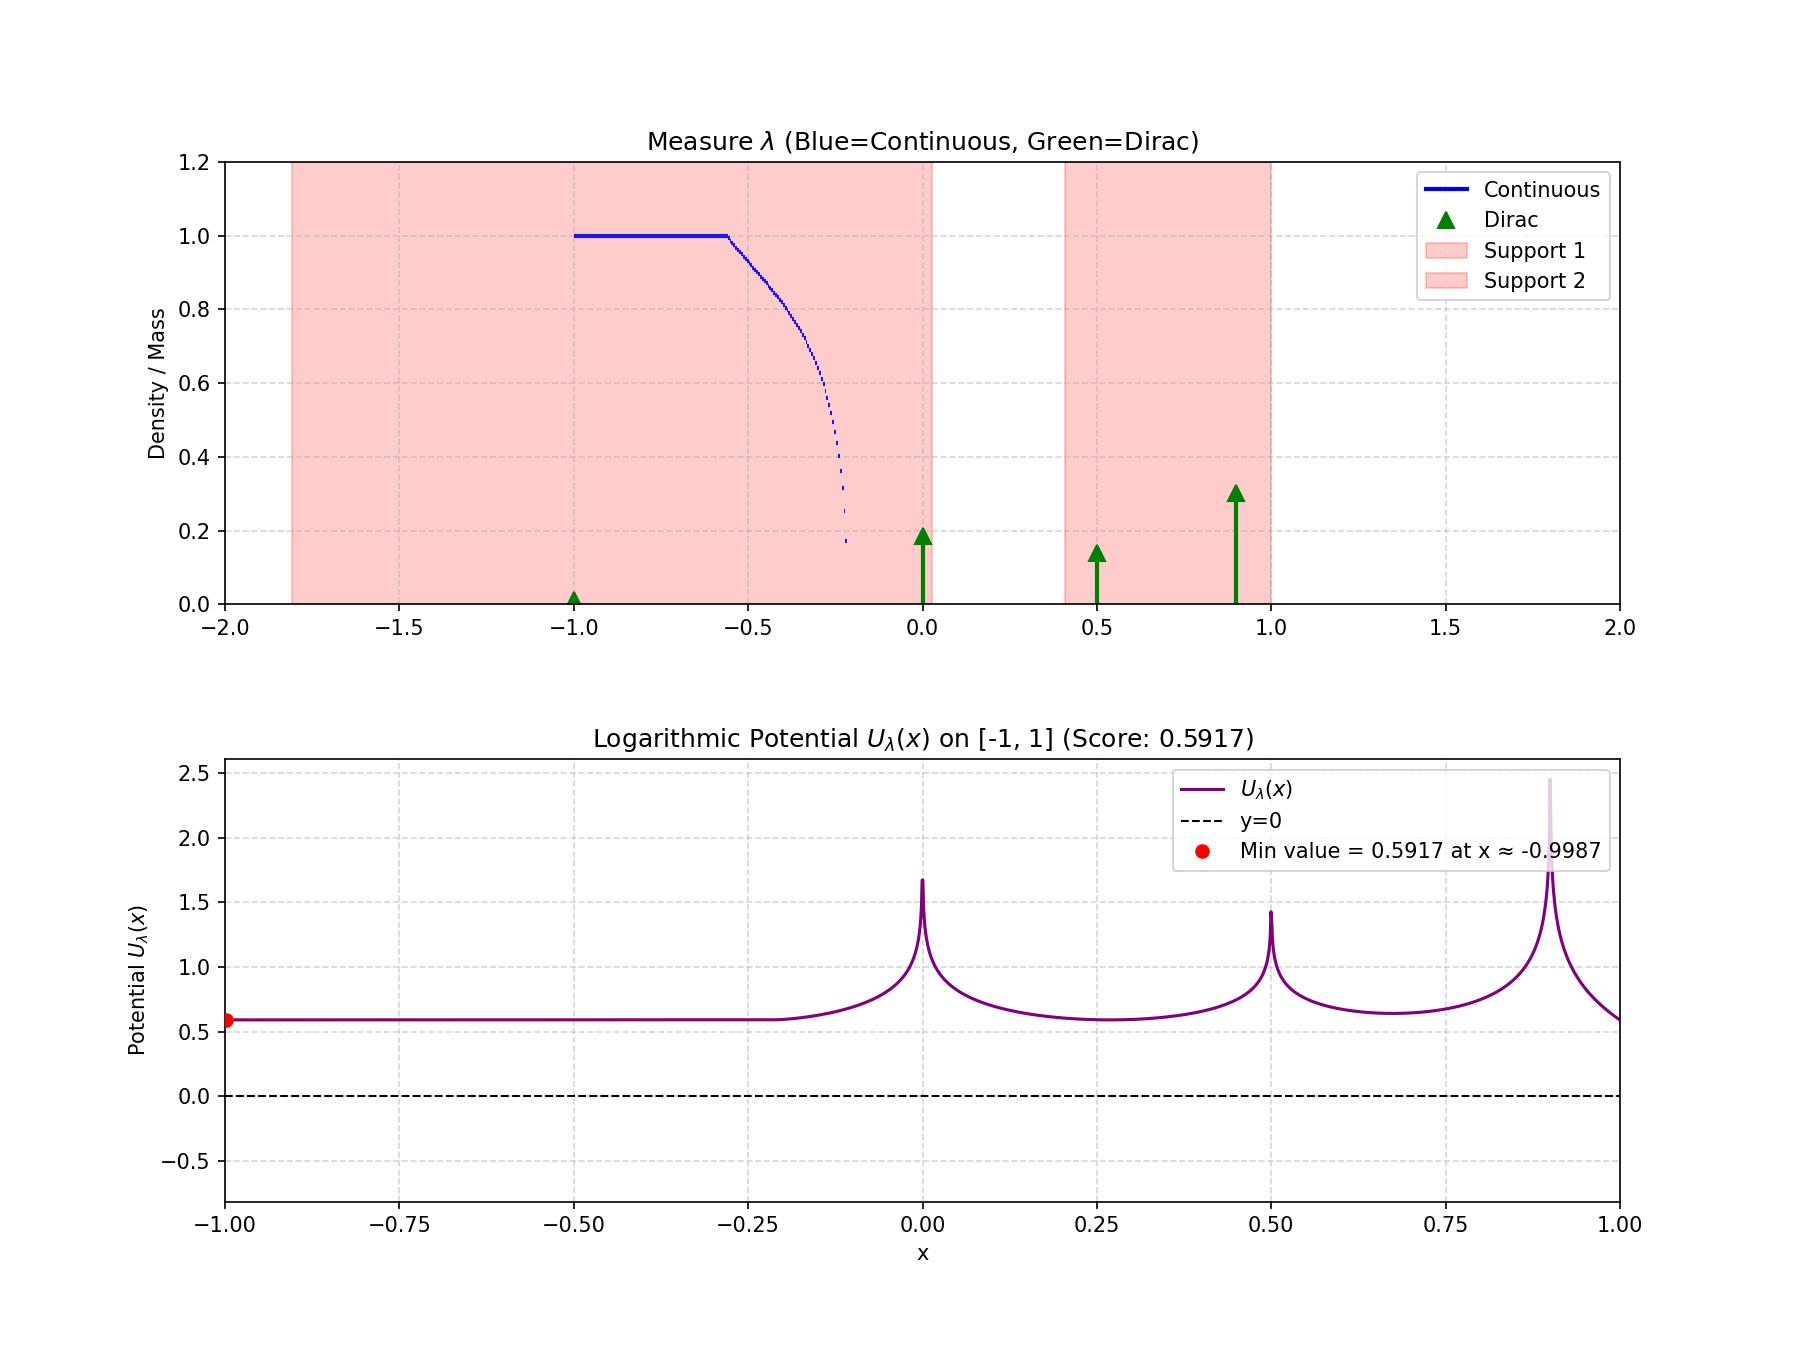
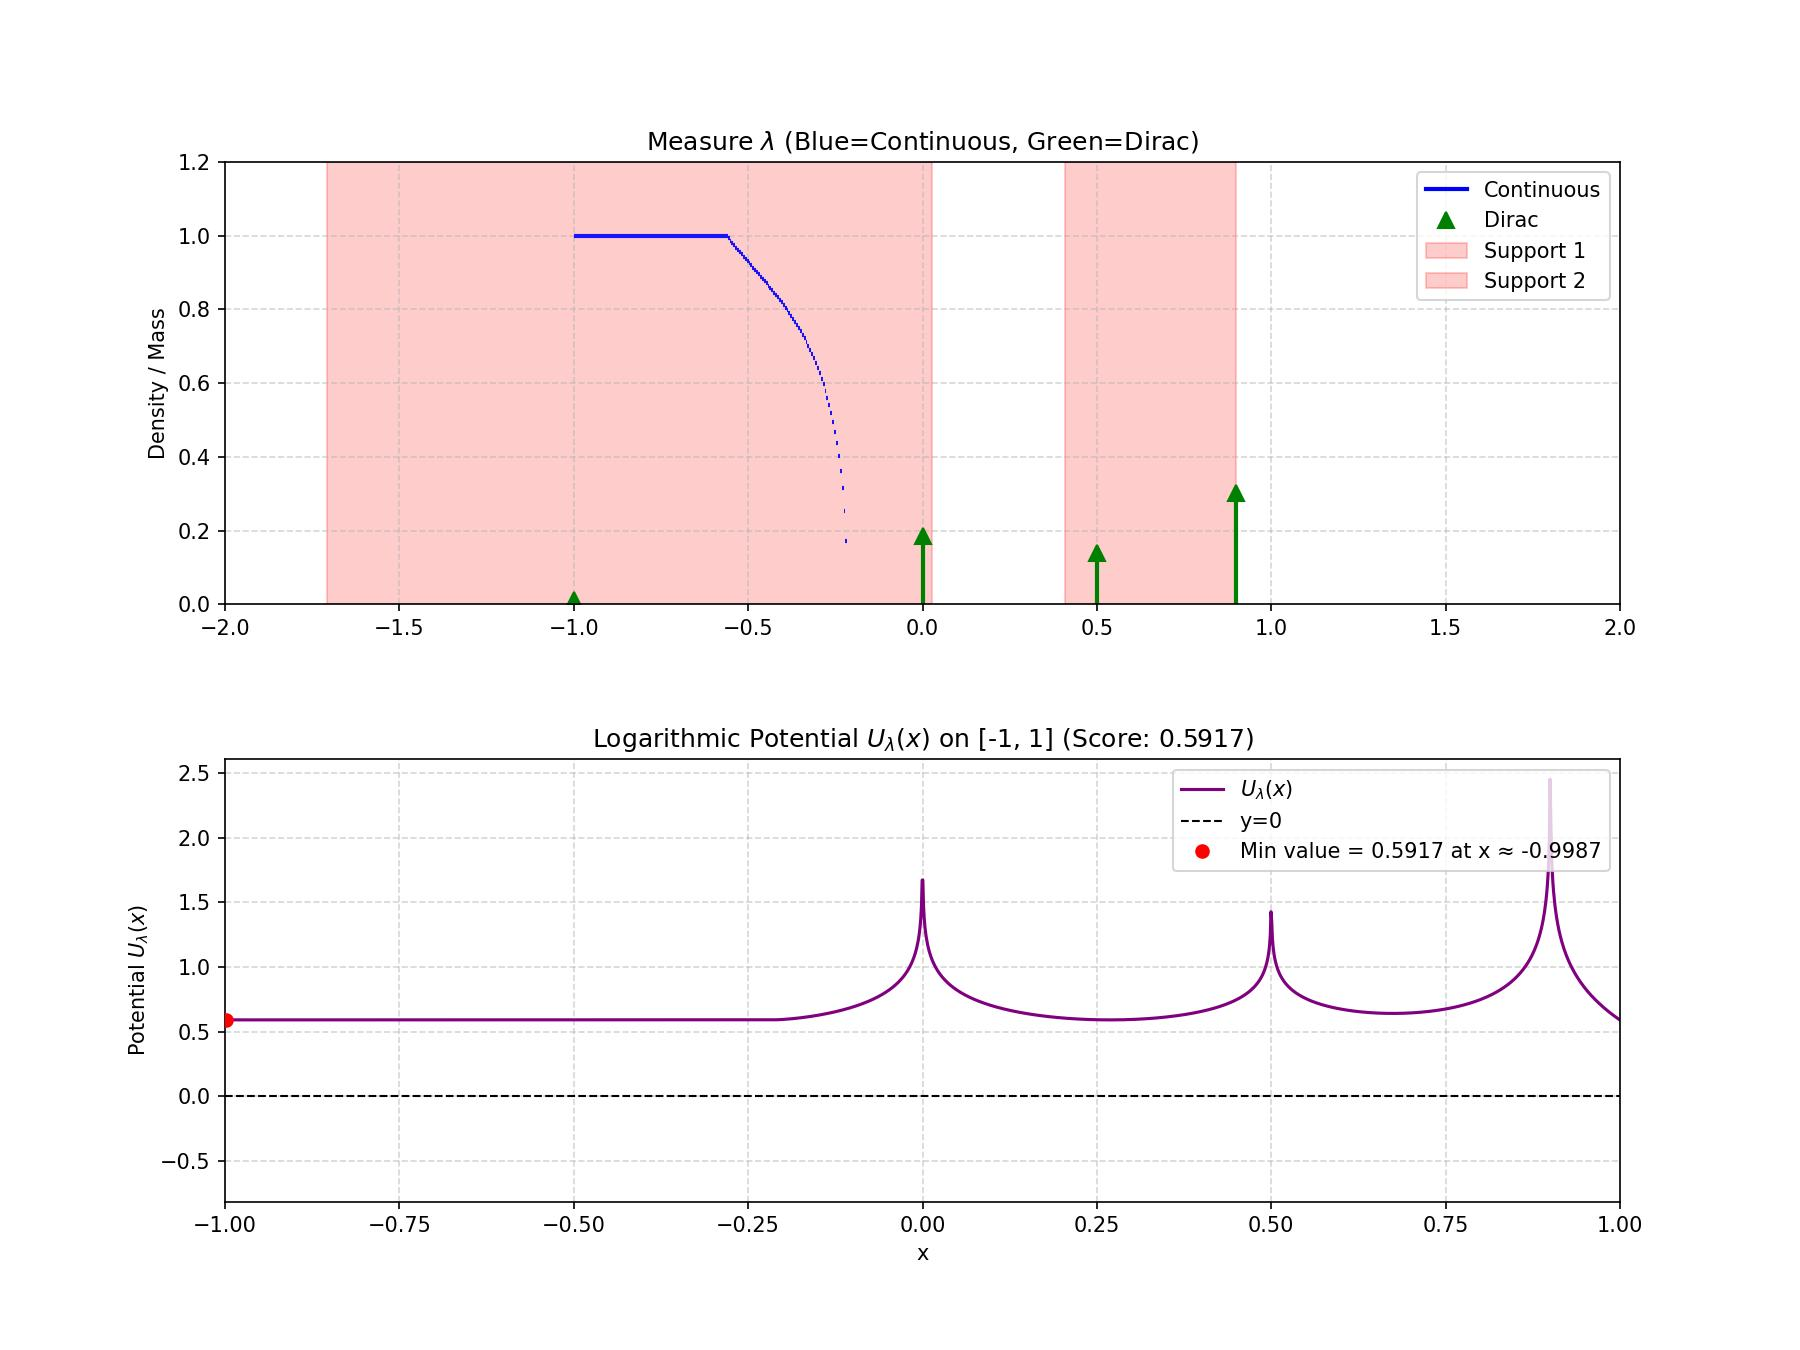
update plot

Changed region(s): [[0.6844, 0.1244, 0.7156, 0.4667], [0.1556, 0.1244, 0.1867, 0.4667]]

diff --git a/other/1038/1038.py b/other/1038/1038.py
@@ -212,8 +212,13 @@ def solve_dual_measure_mixed(output_file='measure.txt'):
         ax1.vlines(dx, 0, y_top, color='green', linewidth=2)
         ax1.plot(dx, y_top, '^', color='green', markersize=8, label='Dirac')
 
-    ax1.axvspan(-1.808, 0.026, color='red', alpha=0.2, label='Support 1')
-    ax1.axvspan(a, 1.0, color='red', alpha=0.2, label='Support 2')
+    # Use the actual epsilon variable to define the visual bounds
+    # Support 1: Starts at -1.808 + eps, ends at 0.026
+    ax1.axvspan(-1.808 + epsilon, 0.026, color='red', alpha=0.2, label='Support 1')
+    
+    # Support 2: Starts at a (or a+eps per your discrete setup), ends STRICTLY at 1 - eps
+    # This will make the red bar stop at 0.9, leaving the "forbidden" tip white.
+    ax1.axvspan(a, 1.0 - epsilon, color='red', alpha=0.2, label='Support 2')
 
     ax1.set_title("Measure $\\lambda$ (Blue=Continuous, Green=Dirac)")
     ax1.set_ylabel("Density / Mass")
